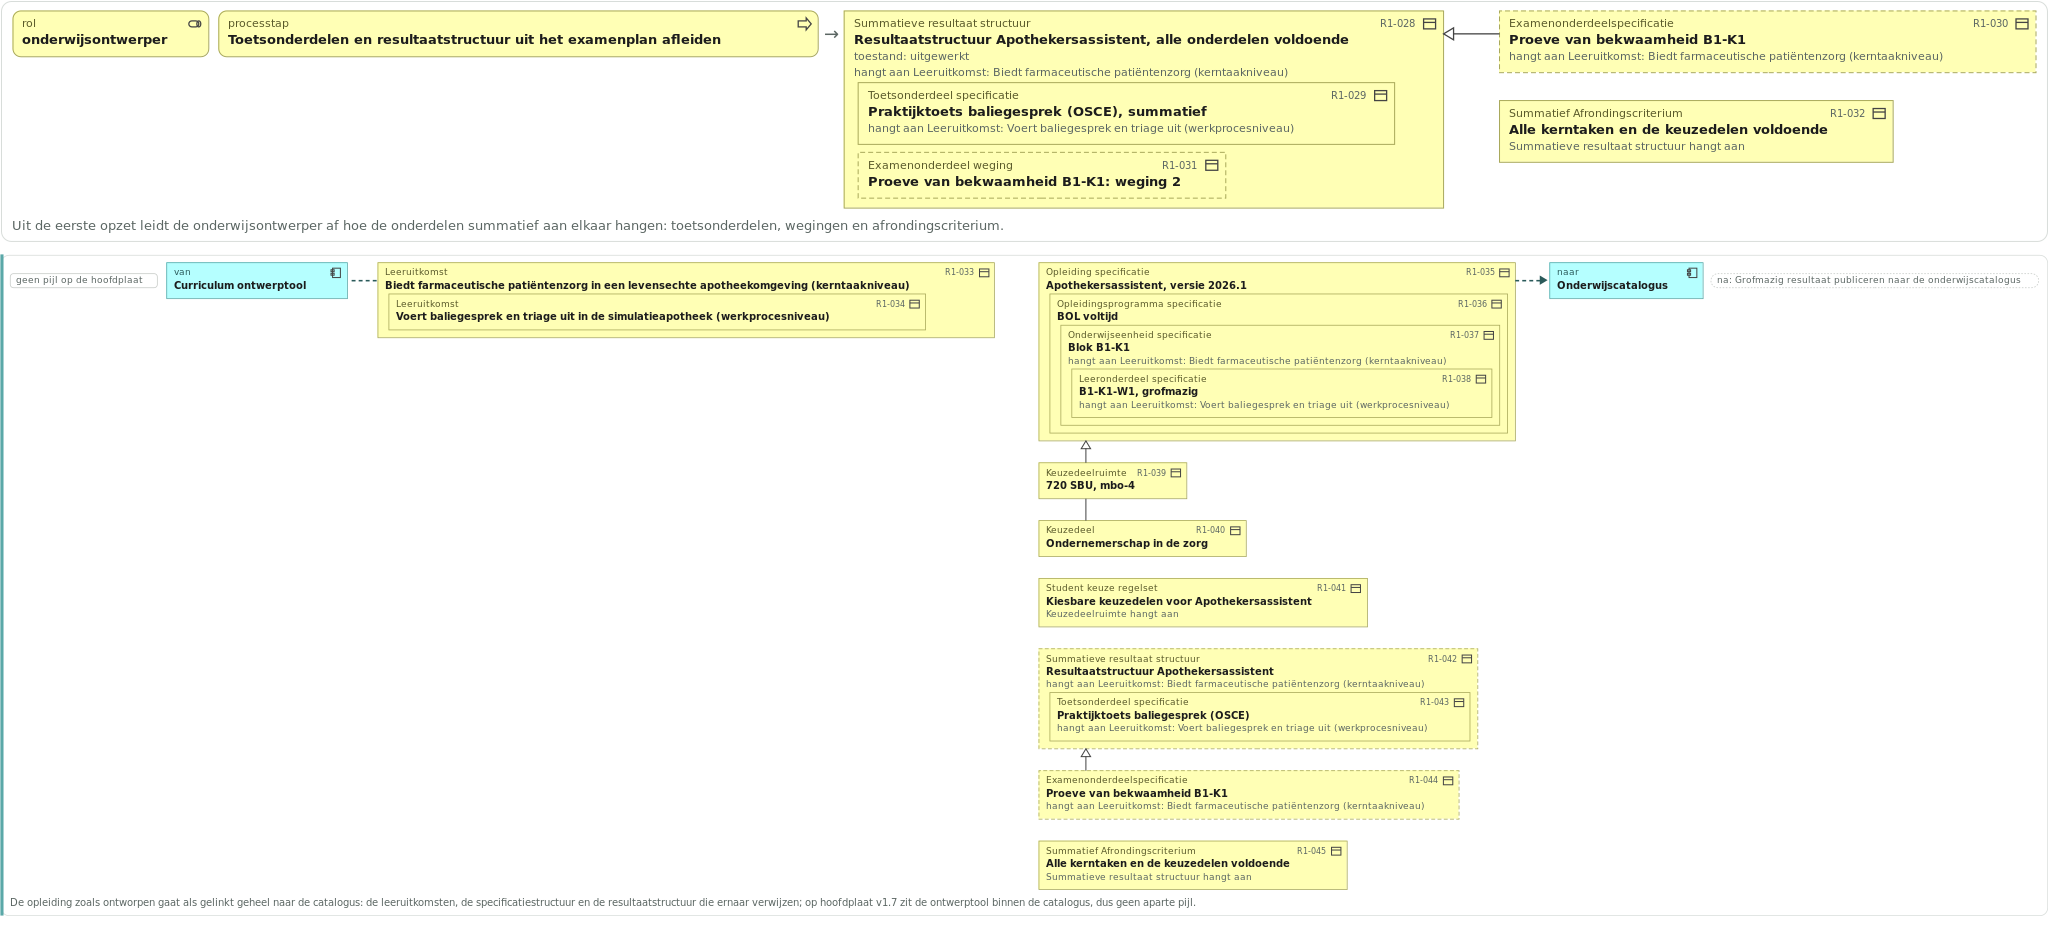
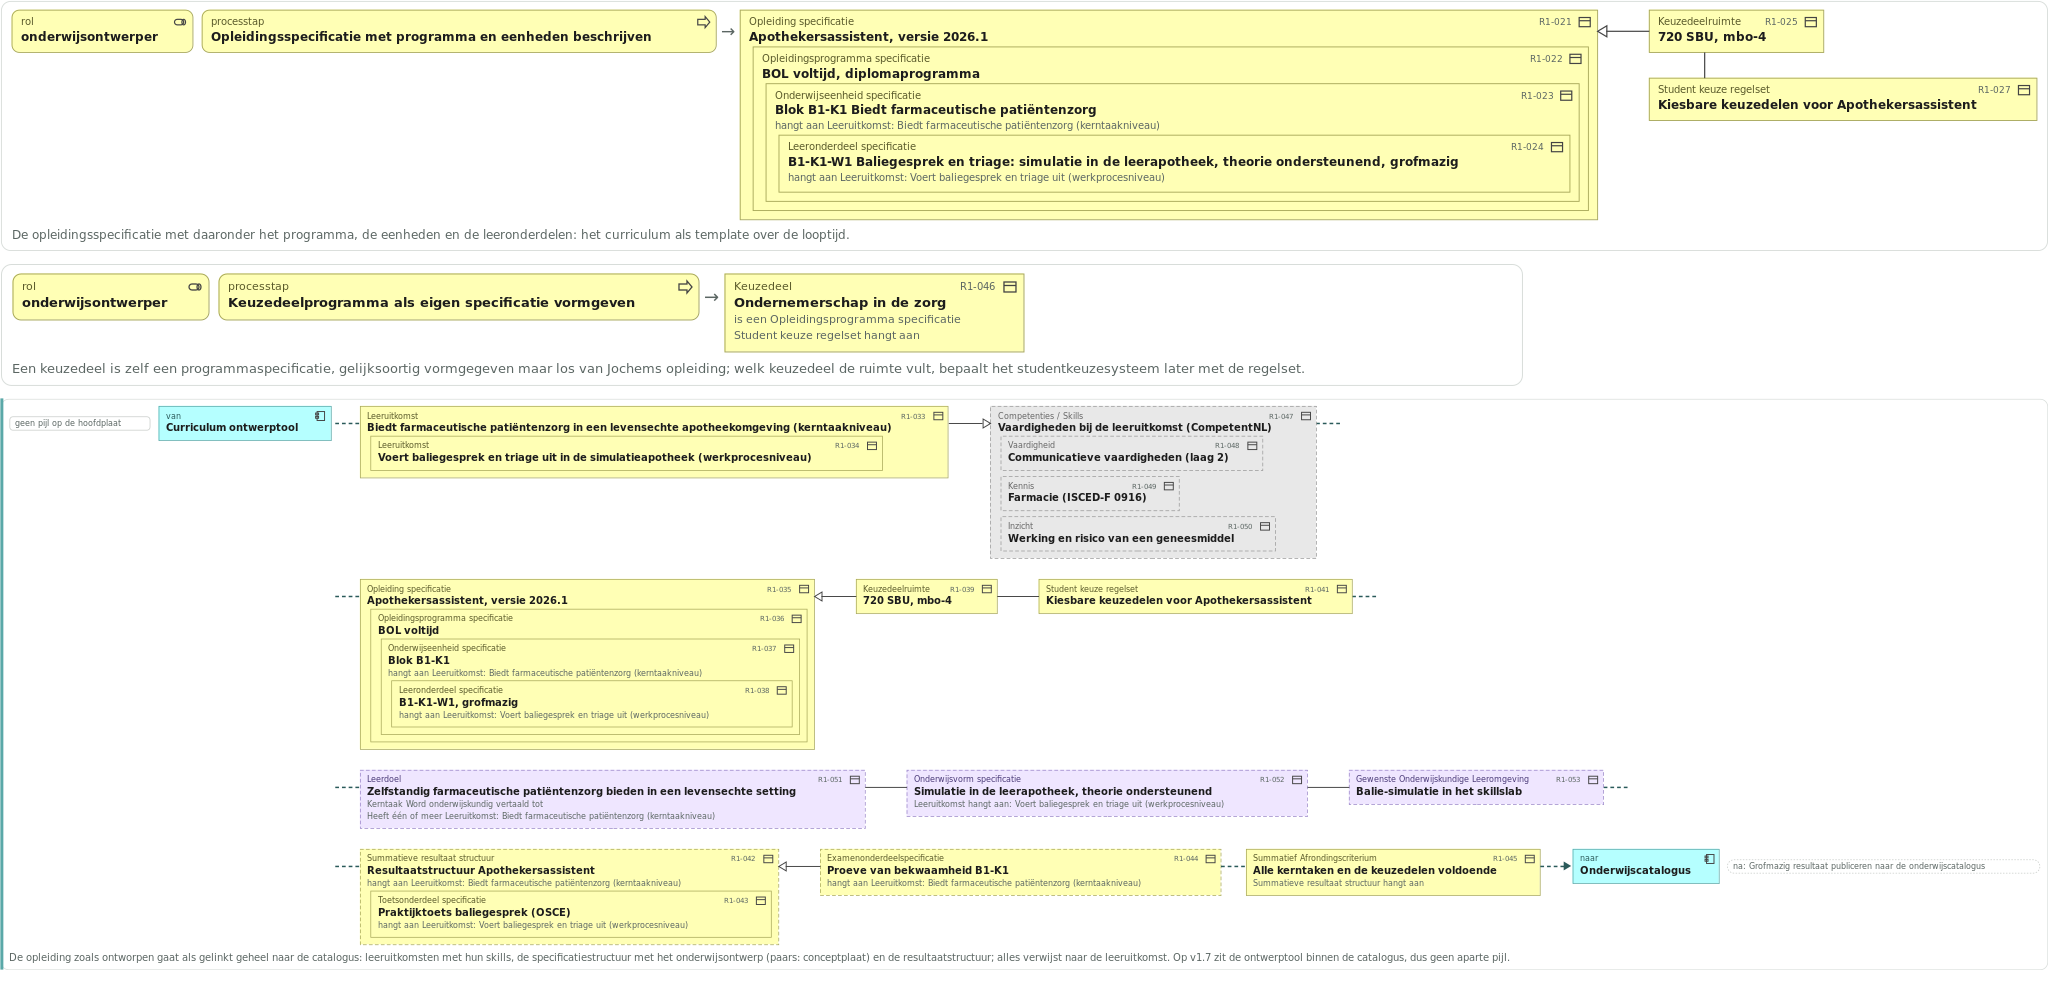
Uitwisseling fase 1 compleet, keuzedeel als eigen specificatie
Claude-Session: https://claude.ai/code/session_01U2MjeqKoEDeZ8DcuBYKUcY

diff --git a/architecture/agent-artifacts/research/20260916_1300_voorbeelduitwerking-leerroute-1/README.md b/architecture/agent-artifacts/research/20260916_1300_voorbeelduitwerking-leerroute-1/README.md
@@ -142,6 +142,6 @@ Drieluik onder de stap "Kwalificatiedossier vertalen naar leeruitkomsten". Boven
 
 ## Regel-ID's en de opleiding zoals ontworpen, 18 september
 
-Elke regel draagt nu een stabiel ID (R, fase, volgnummer) rechtsboven in het object; het regelregister achterin het document koppelt ID, beeld en bron met links. Toets- en examenonderdelen, onderwijseenheid, leeronderdeel en de resultaatstructuur verwijzen naar de leeruitkomst die zij aftikken. De uitwisseling van fase 1 gaat als gelinkt geheel: leeruitkomsten, specificatiestructuur en resultaatstructuur.
+Elke regel draagt nu een stabiel ID (R, fase, volgnummer) rechtsboven in het object en onder elk beeld; het regelregister achterin het document koppelt ID, beeld en bron met links. Toets- en examenonderdelen, onderwijseenheid, leeronderdeel en de resultaatstructuur verwijzen naar de leeruitkomst die zij aftikken. De uitwisseling van fase 1 gaat als gelinkt geheel: leeruitkomsten met hun skills (grijs, buiten scope), de specificatiestructuur met het onderwijsontwerp van de conceptplaat (paars) en de resultaatstructuur; de objecten blijven naast elkaar, verbonden door de stippellijn van de pijl, en lopen door op een volgende rij. Het keuzedeel is een eigen programmaspecificatie in een eigen stap; in de opleiding blijft de keuzedeelruimte met de regelset.
 
-![Toets- en resultaatstructuur en de uitwisseling van fase 1](poc/regels-fase-1-uitwisseling.png)
+![Specificatie, keuzedeel en de uitwisseling van fase 1](poc/regels-fase-1-uitwisseling.png)
